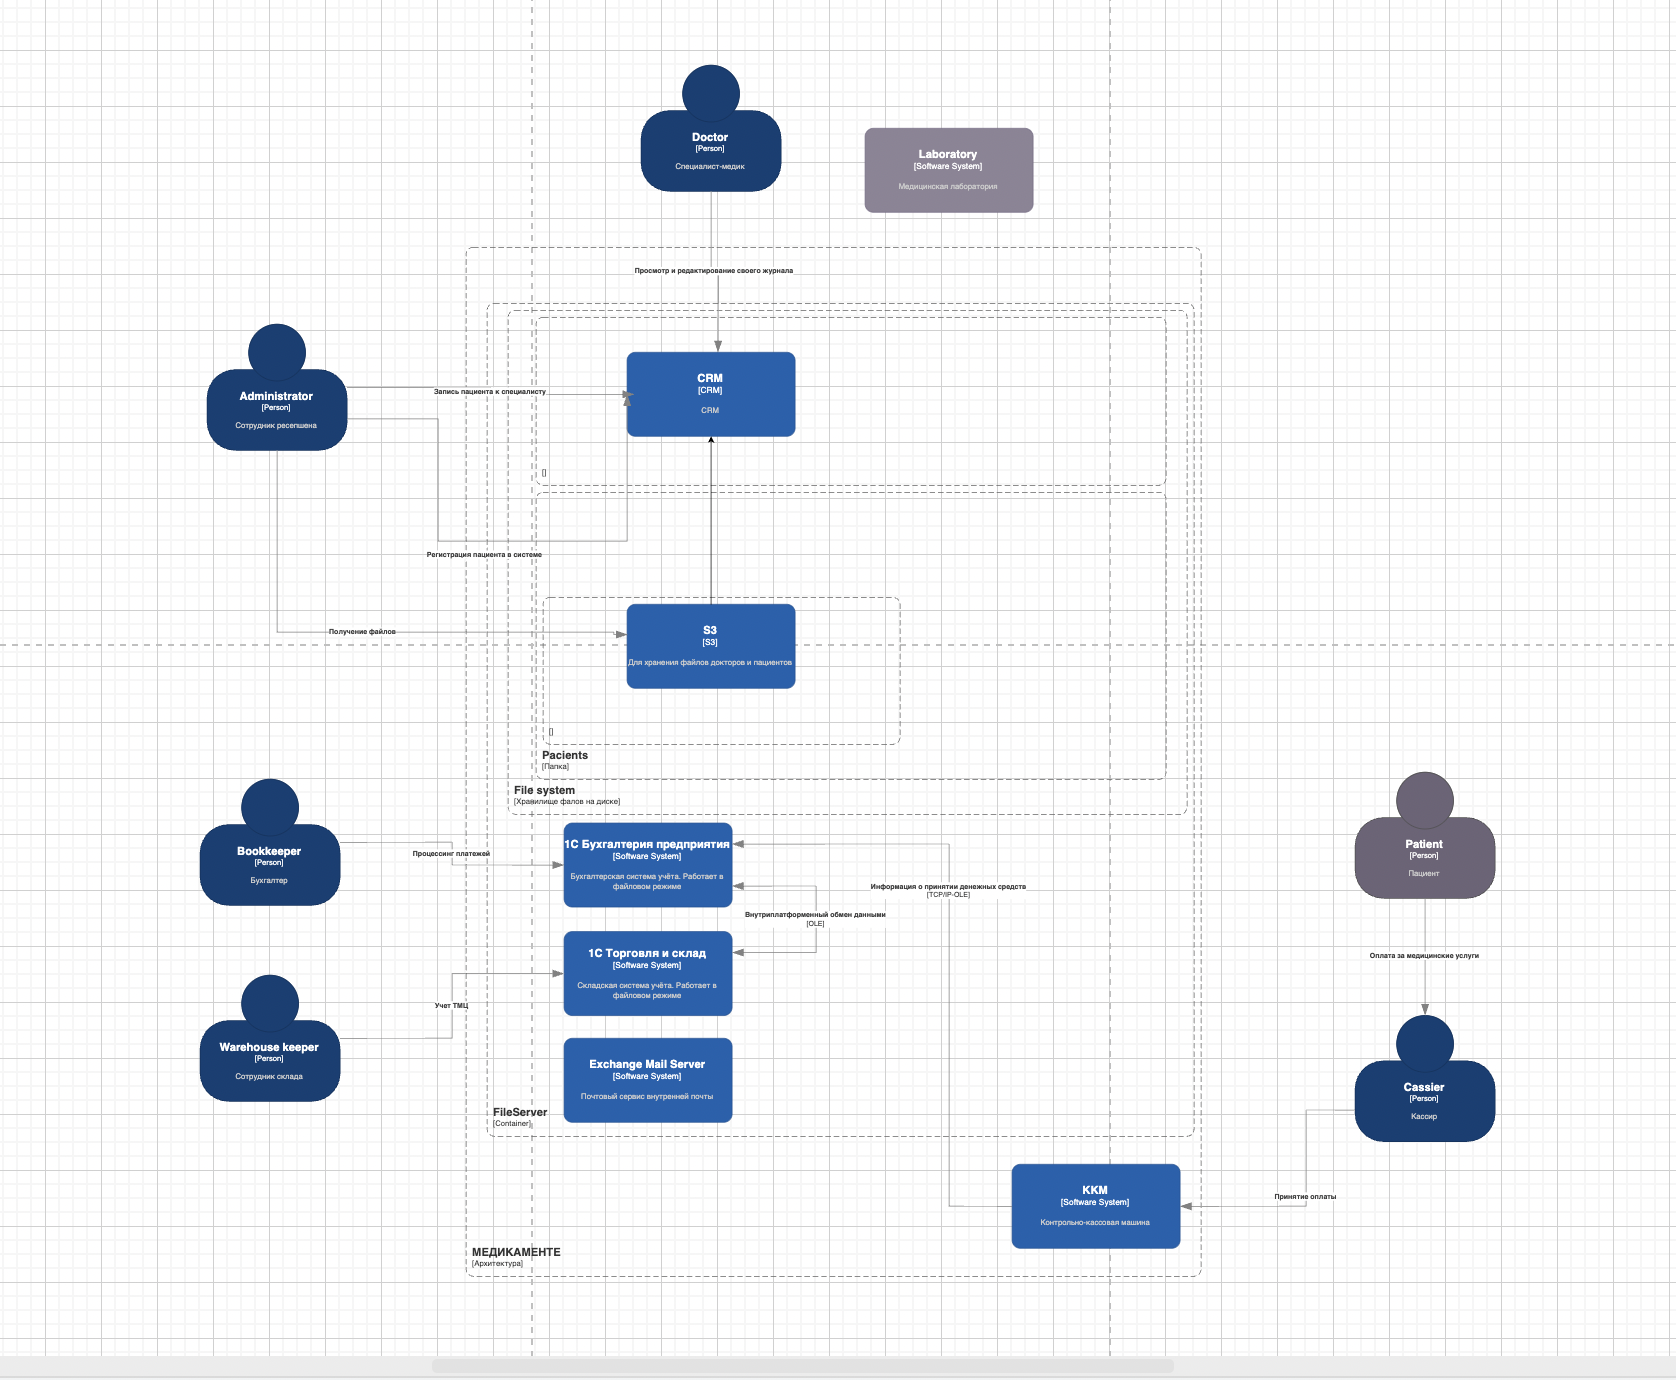
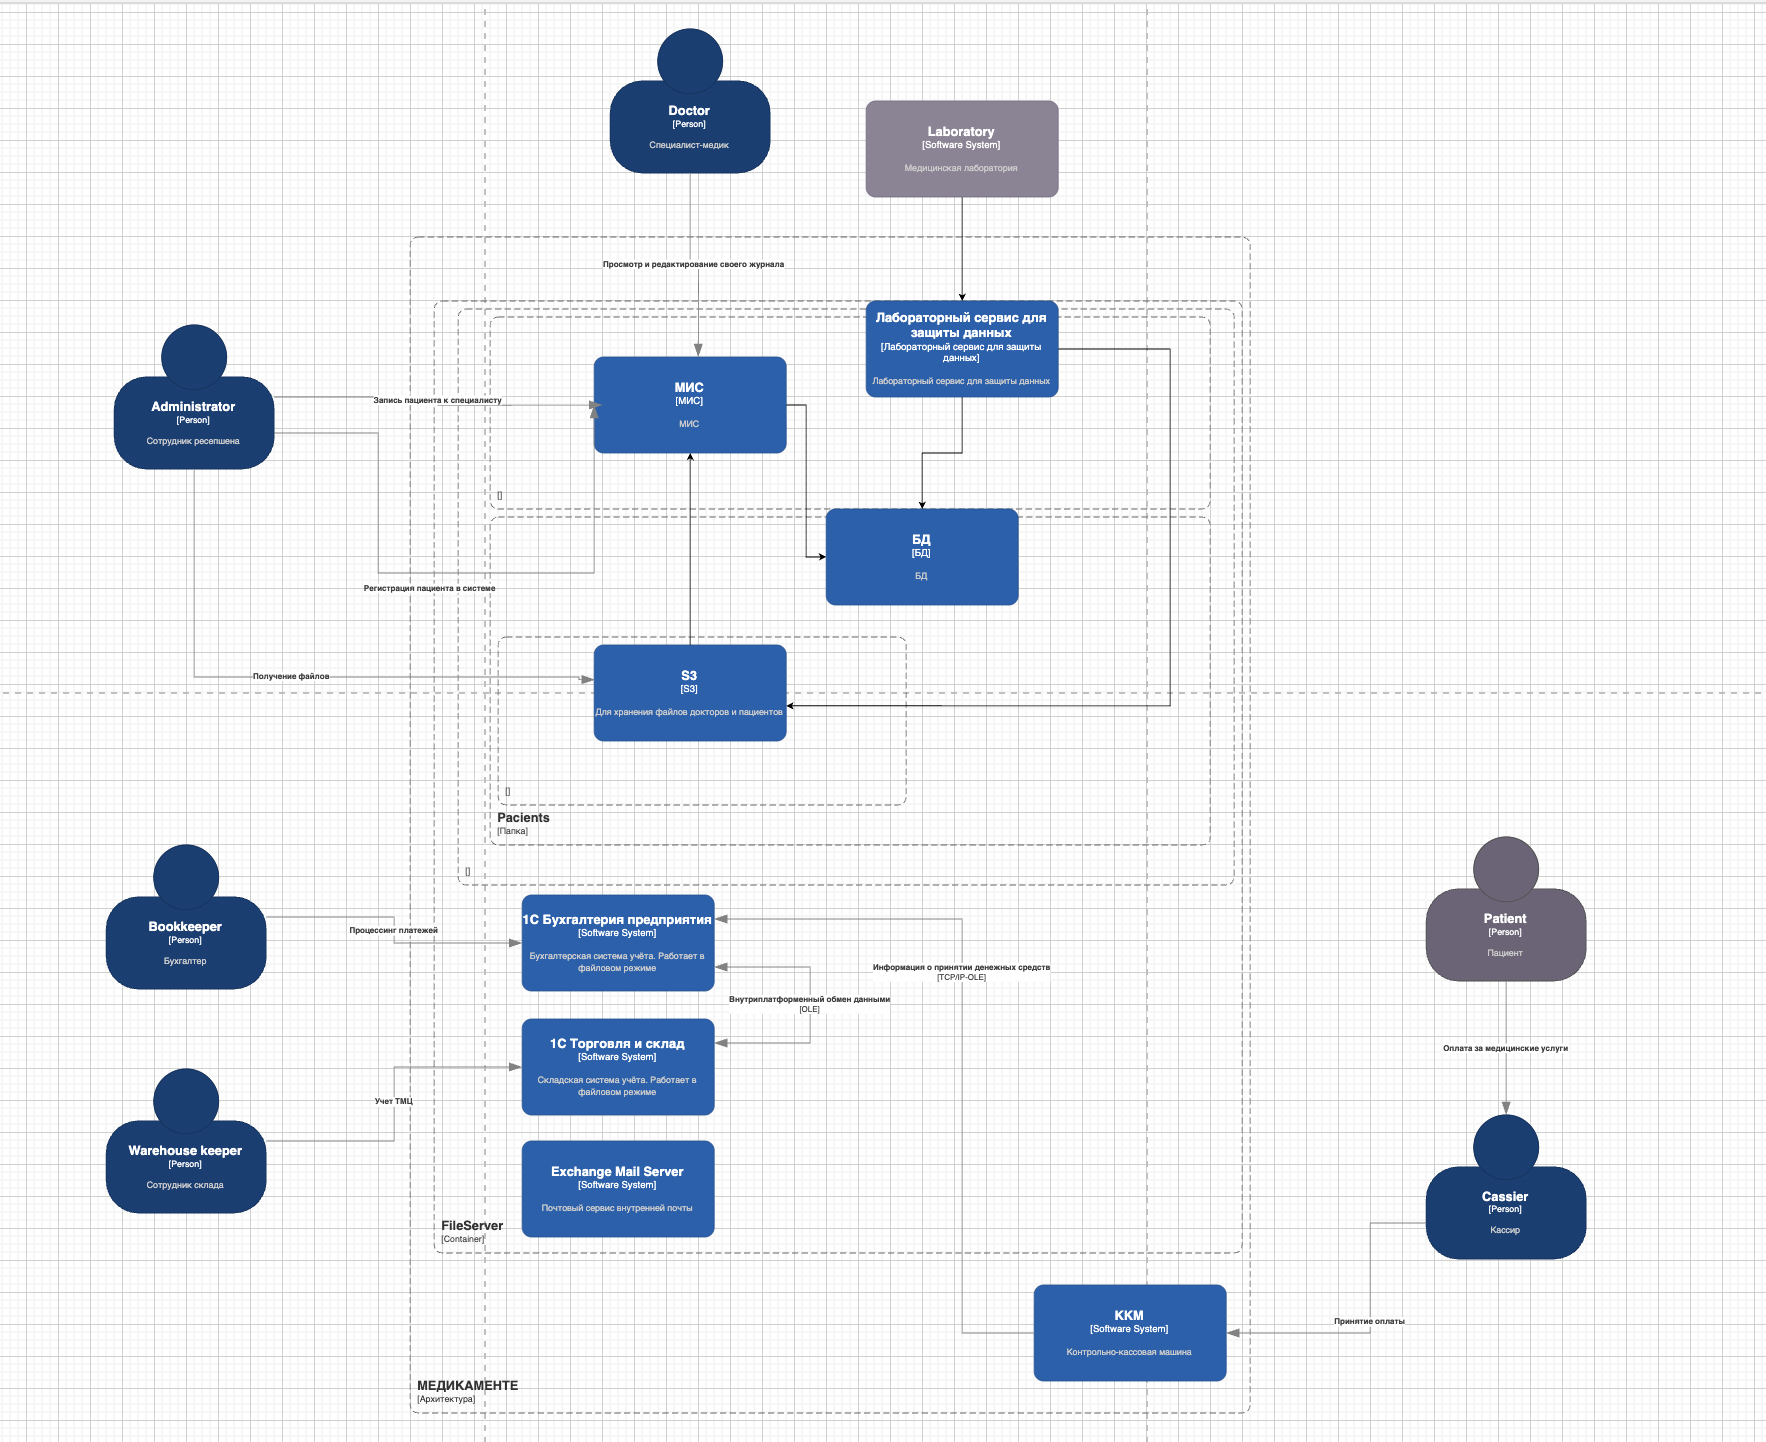
second commit

Changed region(s): [[0.0, 0.0, 1.0, 1.0], [0.8998, 0.3739, 0.9308, 0.4051], [0.8067, 0.3739, 0.8377, 0.4051]]

diff --git a/Task1/README.md b/Task1/README.md
@@ -113,3 +113,6 @@ DFD
 ![](2.png)
 ![](3.png)
 ![](4.png)
+
+### DFD с мерами защиты
+![](5.png)
